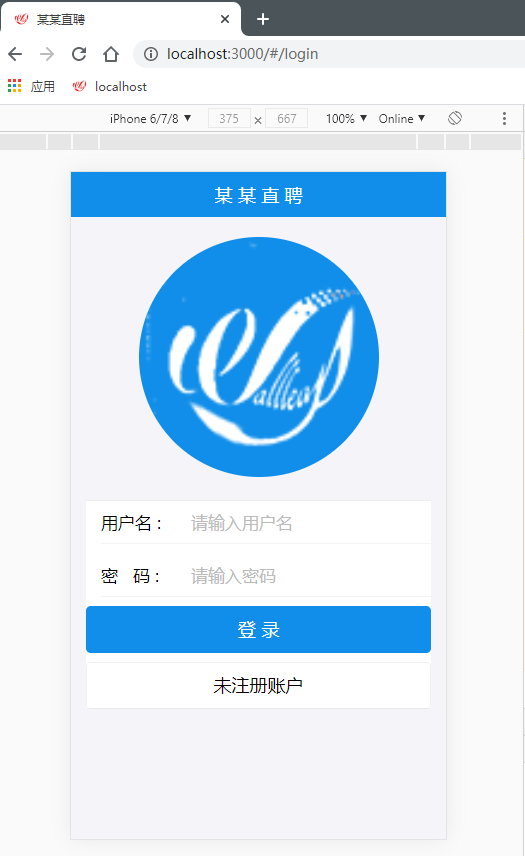
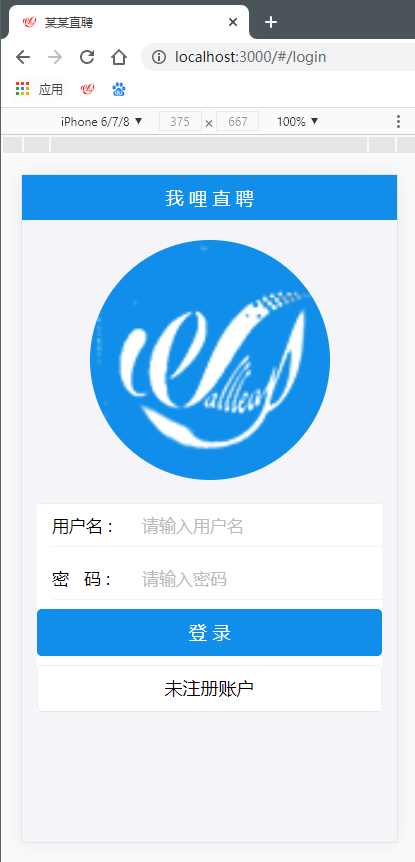
update

diff --git a/direcruit-client/src/containers/register/register.jsx b/direcruit-client/src/containers/register/register.jsx
@@ -55,7 +55,7 @@ class Register extends Component {
     }
     return (
       <div>
-        <NavBar>某&nbsp;某&nbsp;直&nbsp;聘</NavBar>
+        <NavBar>我&nbsp;哩&nbsp;直&nbsp;聘</NavBar>
         <Logo />
         <WingBlank>
           <List>

diff --git a/direcruit-client/src/containers/login/login.jsx b/direcruit-client/src/containers/login/login.jsx
@@ -50,7 +50,7 @@ class Login extends Component {
     }
     return (
       <div>
-        <NavBar>某&nbsp;某&nbsp;直&nbsp;聘</NavBar>
+        <NavBar>我&nbsp;哩&nbsp;直&nbsp;聘</NavBar>
         <Logo />
         <WingBlank>
           <List>

diff --git a/README.md b/README.md
@@ -1,4 +1,4 @@
-# 某某直聘说明
+# 我哩说明
 
 ## 前言
 
